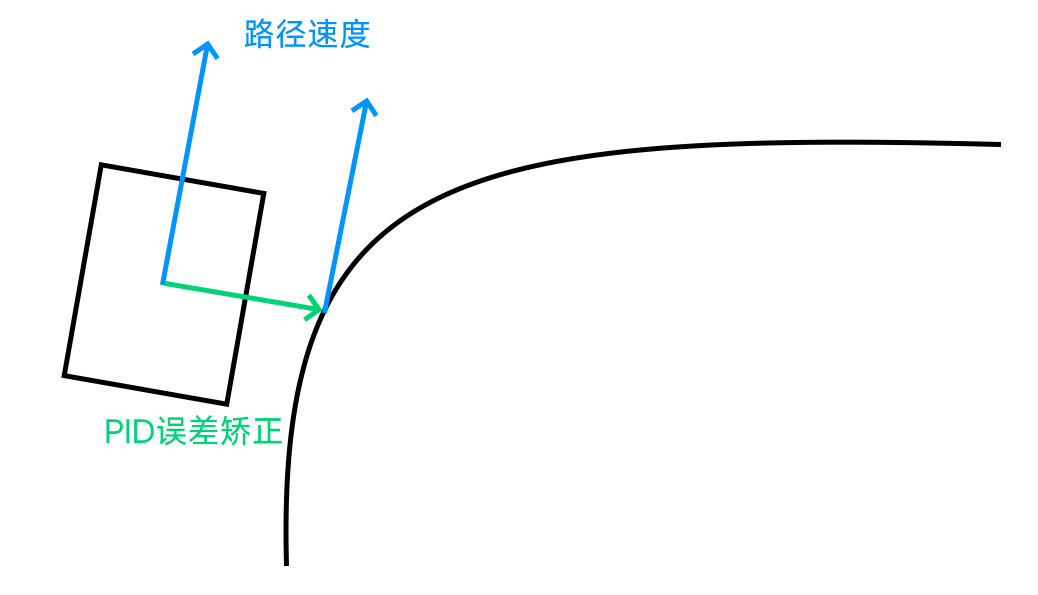
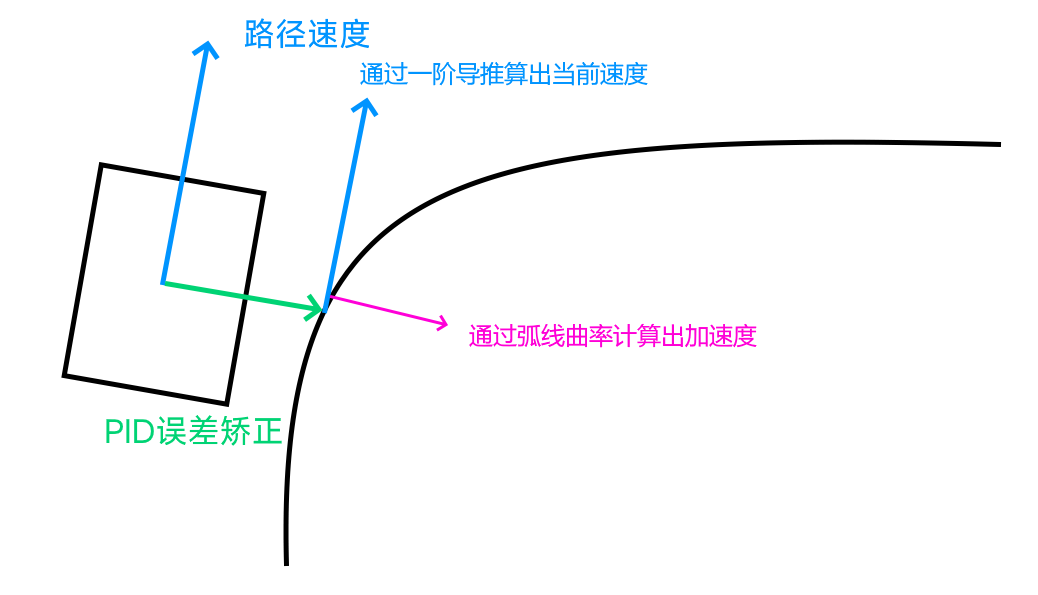
updated portfolio

diff --git a/docs/Engineering Portfolio.md b/docs/Engineering Portfolio.md
@@ -38,10 +38,20 @@ $$
 ## 二、自动阶段路线行走
 
 
-- 我们将FRC中的PathPlanner下放到了机器当中。PathPlanner是由FRC Team 3015创建的FRC运动轮廓生成器。其优点在于：
-**我们可以精确得对每条路径进行微调，其每条路径都是用贝塞尔曲线制作的**
+- 为了使得机器可以在自动阶段精准地完成指令，我们魔改了FRC队伍3015的开源工具Path Planner，对比传统的自动阶段编程，使用pathplanner进行路线设定有以下好处：
+  1. 路径由贝塞尔曲线生成，保证机器移动丝滑流畅，且可以通过微调控制点精准控制走线轨迹
+  2. 内置物理引擎，即使没有训练场也可以模拟出机器走线过程，甚至可以计算出确切的完成时间。
+  3. 用户友好gsui界面，初学者也可以快速编辑自动
 <img src="media/spline curve+pathplanner1.png">
 <img src="media/pathplanner 2+3.png">
+- 制定出精确的路径后，我们使用了一套创新的pid算法来控制机器，使其可以精准的跟随路径，具体原理见下图:
+<img src="media/pathFollowing.png">$$
+    \text{a} = \frac{\text{v}^2 }{\text{r}}
+    $$
+
+
+- 另外，我们的机器在跟随路径时，加入了速度曲线来使过程更加流畅。
+
 <p float="left">
   <img src="media/speed curve ease-in-out.gif" width="49%" /> 
   <img src="media/speed curve linear.gif" width="49%" />
@@ -55,11 +65,10 @@ $$
 </div>
 
 例如，自动阶段导航（放置紫色像素）我们是这样实现的：
-TODO: 编辑图片 **COMPLETED**
-<p float="left">
+<div float="center">
 <img src="media/auto code structure 1.png" width="49%">
 <img src="media/auto code structure 2_edited.png" width="49%">
-</p>
+</div>
 
 除了基础的导航任务，用这套程序架构我们还可以做出很多功能，例如，当我们夹取一个像素堆失败后，机器不会浪费时间去背景板放置，而是会直接夹取下一个像素堆。
 
@@ -72,8 +81,9 @@ TODO: 编辑图片 **COMPLETED**
 - 目前为止我们能够实现三个阶段总共用时**不到4秒**
 
 - **新功能：手臂高度无级调整** 当机器已经完全贴合背板后，手臂可以根据操作手的指令无级调整像素放置高度。操作手只需决定防止高度，程序会自动计算出对应的底盘距离、手臂角度、伸展长度与舵机位置，并实时进行调整
-
-**TODO： gif与重影图**
+<div align="center">
+<img src="media/ftc2024_car_edited_cut.png">
+</div>
 
 
 ## 五、手动阶段精准控制
@@ -84,5 +94,16 @@ TODO: 编辑图片 **COMPLETED**
 <img src="media/encoder-assisted drive-1.png">
 
 ## 六、程序优化问题
+一般来说，ftc机器的程序以单线程运行，机器依次读取传感器、处理程序逻辑、对电机进行控制。
+但是当机器有太多功能时，这样做会导致程序延迟过高，于是我们将程序分成三个线程执行，如下所示：
+- 优化前
+<div align="center">
+<img src="media/beforeOptimize.png">
+</div>
 
-- 在
+- 优化后
+<div align="center">
+<img src="media/afterOptimize.png">
+</div>
+主线程以100次每秒读取手柄并处理程序逻辑；马达控制线程以100次每秒控制电机；传感器通讯线程受到rev控制板自身硬件性能限制，只能以40次每秒读取传感器
+在这种情况下，我们成功将操作延迟从50ms降低至10ms，并将PID的更新速率从20次每秒提升至40次每秒，大大提升了机器的流畅度
